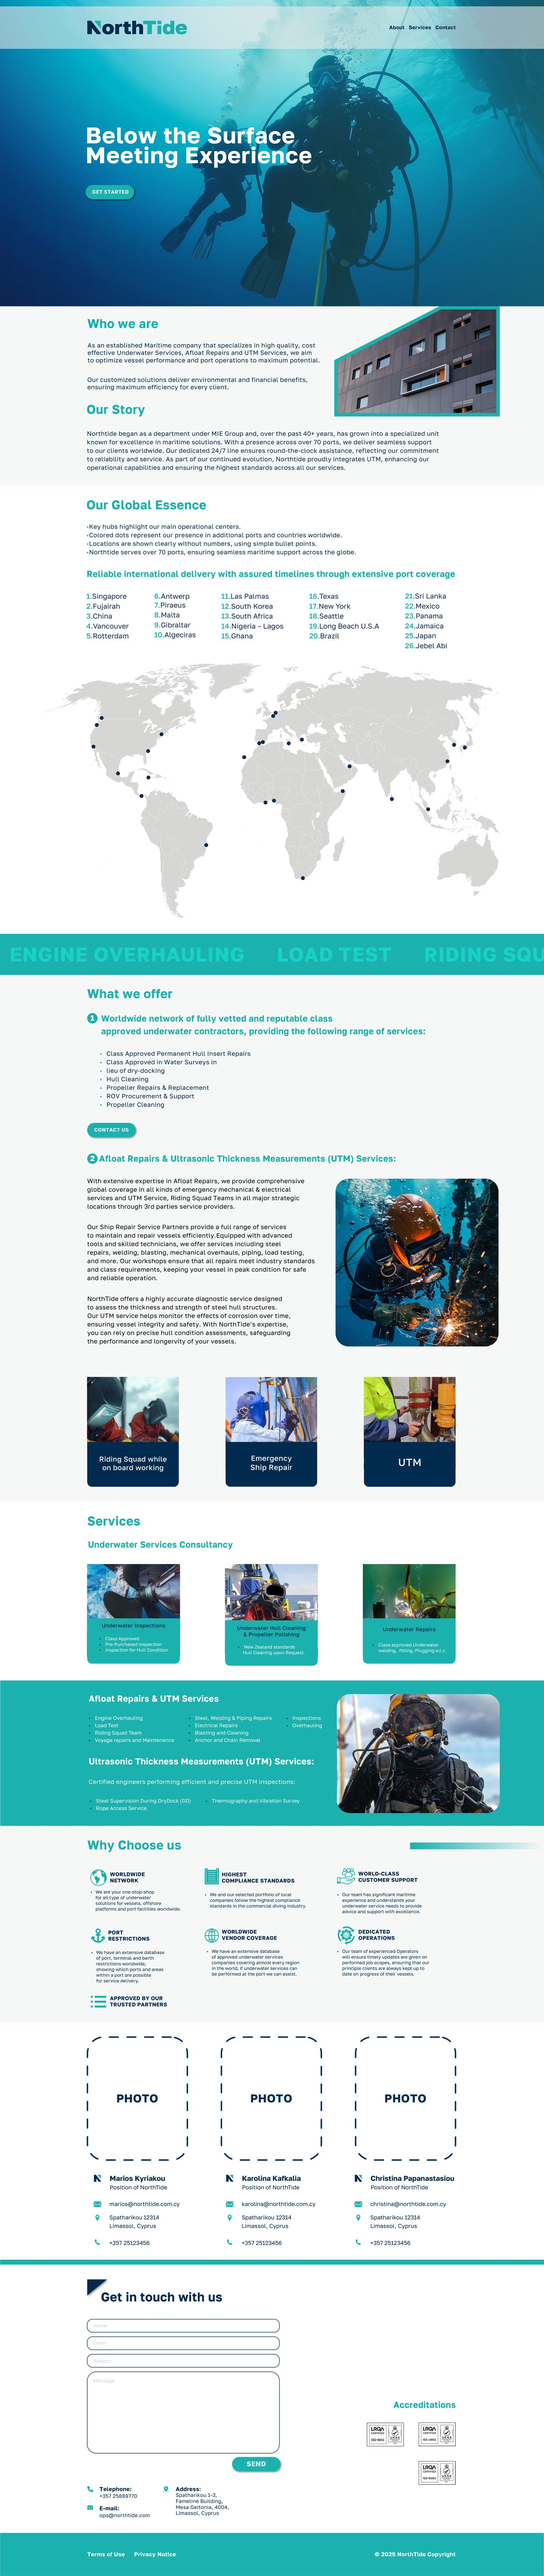
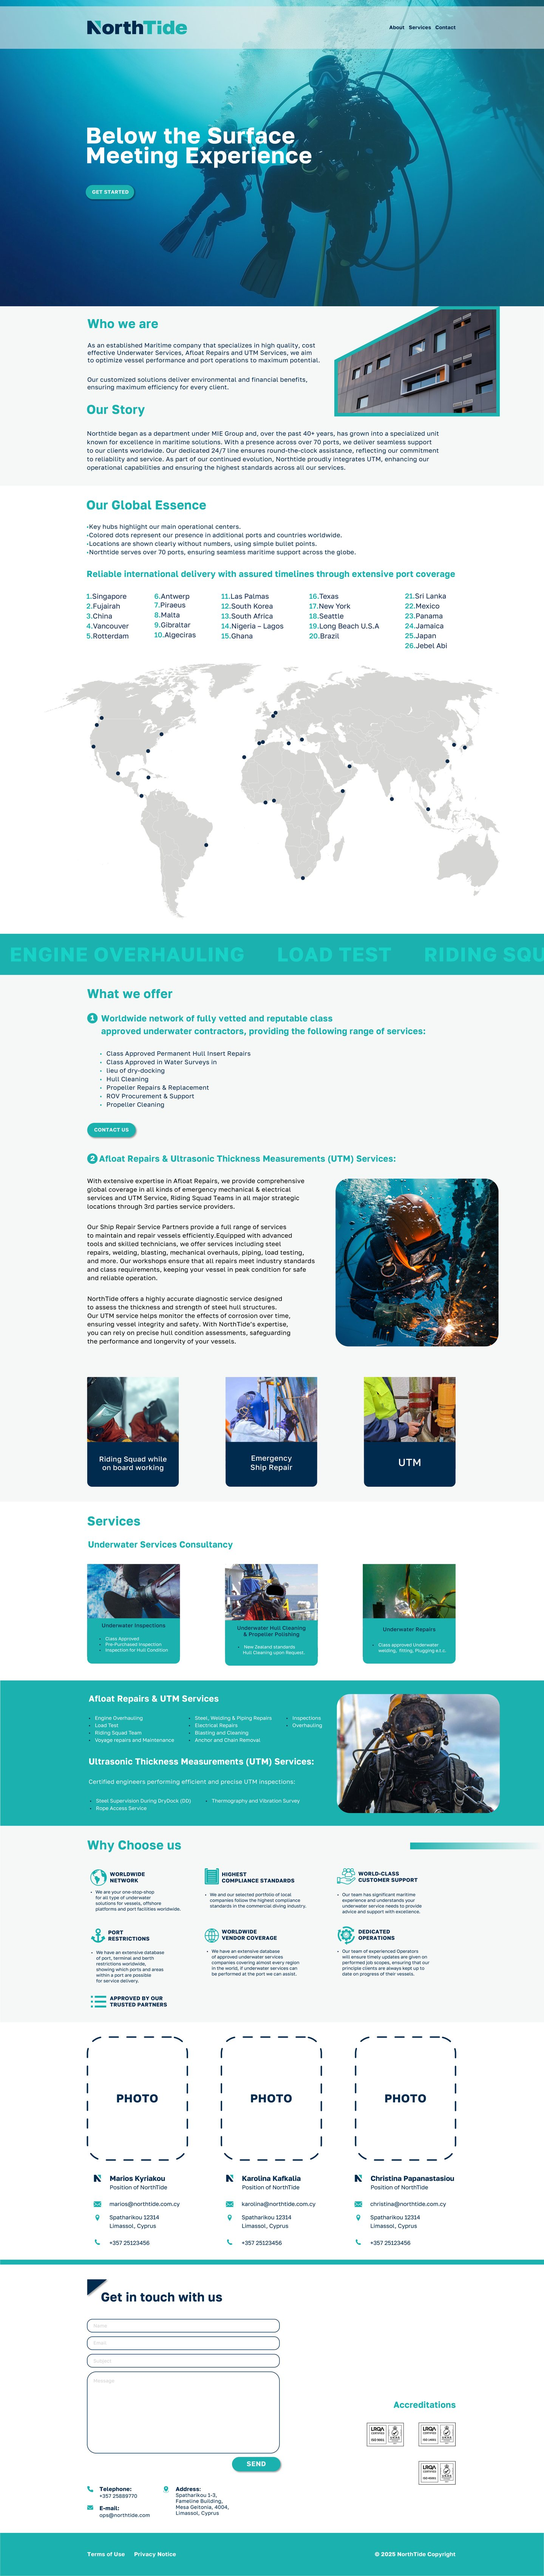
NorthTide previews: standard device widths (1440/768/390), smooth iOS scroll

diff --git a/src/components/sections/WebsitePreview.tsx b/src/components/sections/WebsitePreview.tsx
@@ -48,10 +48,15 @@ export default function WebsitePreview({ url, img, imgTablet, imgMobile, title }
         </a>
       </div>
 
-      {/* Scrollable image viewport — max-height so short designs don't leave empty space */}
+      {/* Scrollable image viewport */}
       <div
-        className="w-full overflow-y-auto bg-white"
-        style={{ maxHeight: "80vh" }}
+        className="w-full bg-white"
+        style={{
+          maxHeight: "80vh",
+          overflowY: "scroll",
+          WebkitOverflowScrolling: "touch", // momentum scroll on iOS
+          overscrollBehavior: "contain",
+        }}
       >
         <img
           key={src}
